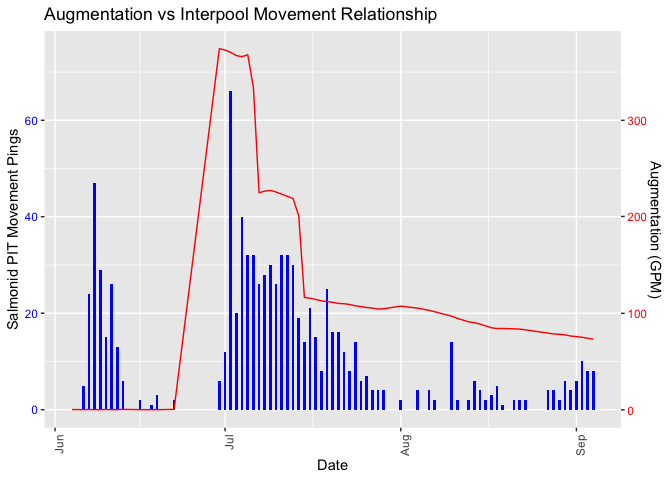
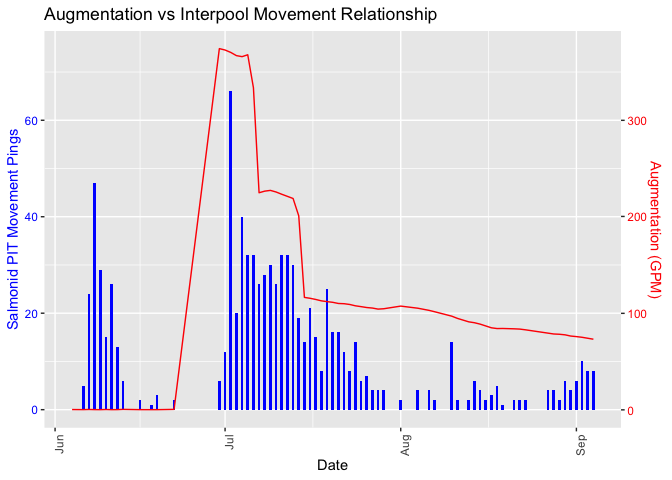
updoot

Changed region(s): [[0.0, 0.25, 0.0312, 0.6875], [0.9688, 0.3438, 1.0, 0.625]]

diff --git a/SRF-2018-Code.md b/SRF-2018-Code.md
@@ -26,13 +26,13 @@ library(readr)
 library(tidyverse)
 ```
 
-    ## ── Attaching packages ───────────────────────────────────────────────────────────── tidyverse 1.2.1 ──
+    ## ── Attaching packages ────────────────────────────────────────────────────────────── tidyverse 1.2.1 ──
 
     ## ✔ ggplot2 3.0.0     ✔ purrr   0.2.5
     ## ✔ tibble  1.4.2     ✔ stringr 1.3.1
     ## ✔ tidyr   0.8.1     ✔ forcats 0.3.0
 
-    ## ── Conflicts ──────────────────────────────────────────────────────────────── tidyverse_conflicts() ──
+    ## ── Conflicts ───────────────────────────────────────────────────────────────── tidyverse_conflicts() ──
     ## ✖ dplyr::filter() masks stats::filter()
     ## ✖ dplyr::lag()    masks stats::lag()
 
@@ -602,8 +602,7 @@ ggplot(Augmentation_MovementData) +
   scale_y_continuous(sec.axis = sec_axis(~.*5, name = "Augmentation (GPM)")) + 
   labs(x = "Date", y = "Salmonid PIT Movement Pings") + 
   ggtitle("Augmentation vs Interpool Movement Relationship") +
-  theme(axis.text.y.right = element_text(colour="red")) +
-  theme(axis.text.y.left = element_text(colour="blue"))
+  theme(axis.text.y.right = element_text(colour="red"), axis.text.y.left = element_text(colour="blue"), axis.title.y.right = element_text(color = "red"), axis.title.y.left = element_text(color = "blue"))
 ```
 
 ![](SRF-2018-Code_files/figure-markdown_github/unnamed-chunk-22-1.png)
@@ -651,8 +650,7 @@ ggplot(Flow_MovementData) +
   scale_y_continuous(sec.axis = sec_axis(~.*5, name = "Discharge (GPM)")) + 
   labs(x = "Date", y = "Salmonid PIT Movement Pings") + 
   ggtitle("Discharge vs Interpool Movement Relationship") +
-  theme(axis.text.y.right = element_text(colour="red")) +
-  theme(axis.text.y.left = element_text(colour="blue"))
+  theme(axis.text.y.right = element_text(colour="red"), axis.text.y.left = element_text(colour="blue"), axis.title.y.right = element_text(color = "red"), axis.title.y.left = element_text(color = "blue"))
 ```
 
 ![](SRF-2018-Code_files/figure-markdown_github/unnamed-chunk-24-1.png)
